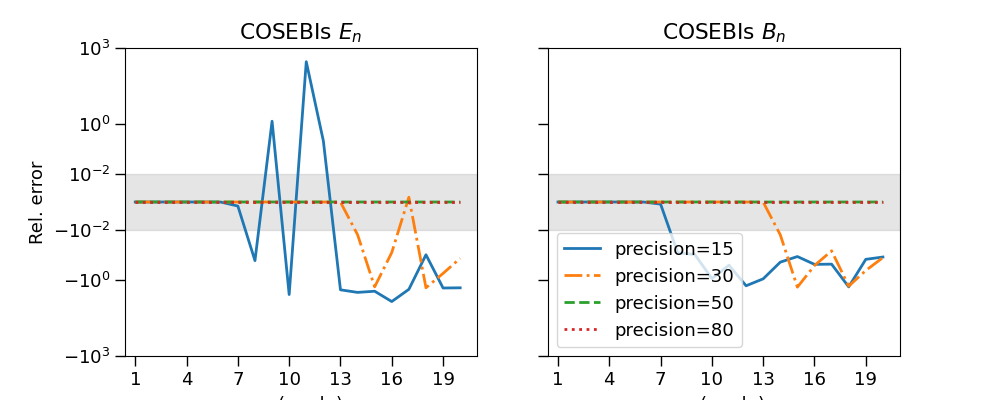
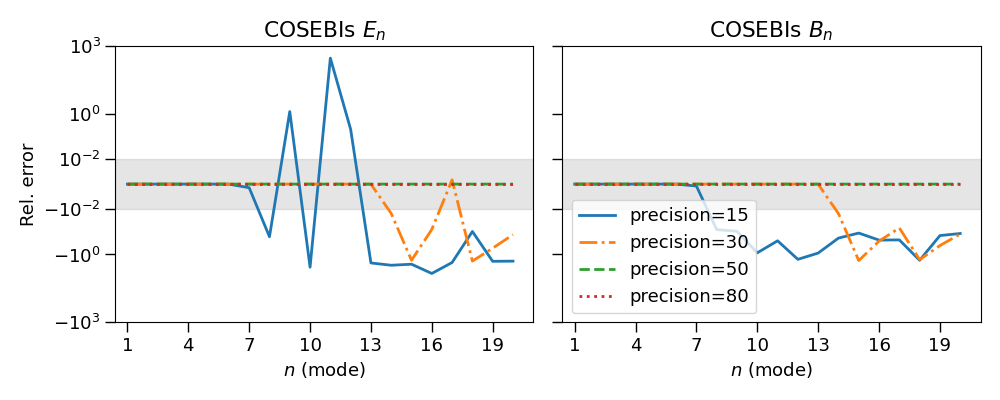
Fix bib and figure labels

diff --git a/paper/paper.md b/paper/paper.md
@@ -33,9 +33,10 @@ We are entering an era where we are not limited by the data volume but by
 systematic uncertainties. It is in this context that we present here a simple
 python-based software package to help in the computation of E-/B-mode
 decomposition, which can be use for systematic checks or science analysis. As
-we demonstrate, our implementation has both the high precision and speed required
-to perform this kind of analysis while avoiding a scenario wherein either
-numerical precision or computational time is a significant limiting factor.
+we demonstrate, our implementation has both the high precision and speed
+required to perform this kind of analysis while avoiding a scenario wherein
+either numerical precision or computational time is a significant limiting
+factor.
 
 # Statement of need
 
@@ -69,9 +70,9 @@ have not found a similar publicly available implementation. That being said,
 they are classicaly used as a one-time measure for null tests in various
 surveys. The implementation we are presenting would enable one to use this
 decomposition for cosmological inference, which requires computing several
-integrals at each likelyhood call. While the commonly used 
-`scipy` library would make the computation untractable, the speed gain by switching to
-`numba` opens new opportunities such as this one.
+integrals at each likelyhood call. While the commonly used
+`scipy` library would make the computation untractable, the speed gain by
+switching to `numba` opens new opportunities such as this one.
 
 [^1]: <https://github.com/AngusWright/CosmoPipe>
 
@@ -79,9 +80,9 @@ integrals at each likelyhood call. While the commonly used
 
 This package has been designed around two constraints: precision and speed. As
 it can be difficult to reach both at the same time, the code is partitioned in
-a way that parts requiring high precision are done using python libraries such as
-`sympy` and `mpmath`. In contrast, parts of the code that do not require high
-precision leverage the power of Just-In-Time (JIT) compilation. `Numba`
+a way that parts requiring high precision are done using python libraries such
+as `sympy` and `mpmath`. In contrast, parts of the code that do not require
+high precision leverage the power of Just-In-Time (JIT) compilation. `Numba`
 provides significant speed up compared to a classic python implementation.
 As this library is intended to provide tools for cosmological computation, it
 was important to provide meaningful unit tests and demonstrate a full coverage
@@ -235,10 +236,10 @@ This software is being in the Utraviolet Near Infrared Optical Northern Survey
 Latitude Imaging Survey (HLIS). In addition to its current usage in science
 collaborations, we provide unit tests that not only validate the implementation
 but also validate the computation mathematically and provide a higher bound for
-the accuracy of the code. Fianlly, examples can be found in the code repository that
-provide comparison against alternative approaches and implementations. They show
-that the computation presented here is significantly faster than existing
-alternatives.
+the accuracy of the code. Fianlly, examples can be found in the code repository
+that provide comparison against alternative approaches and implementations.
+They show that the computation presented here is significantly faster than
+existing alternatives.
 
 # AI usage disclosure
 
